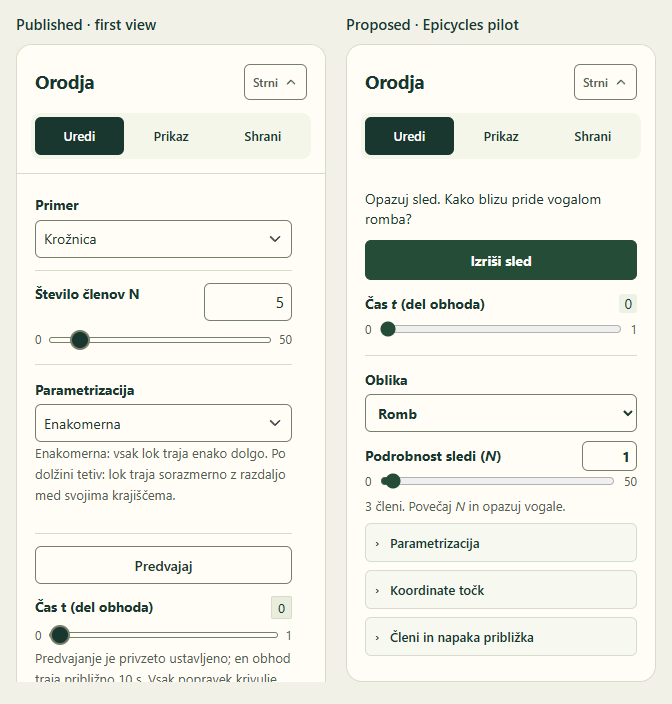
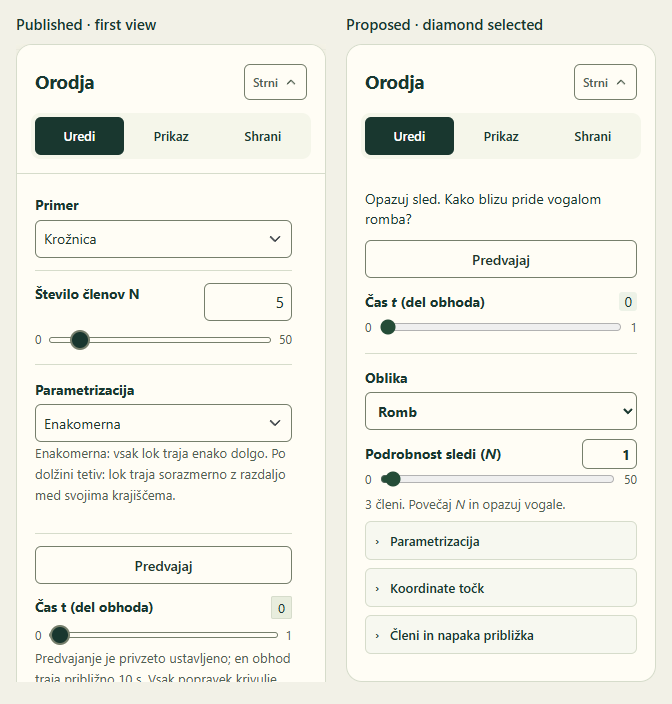
docs: fit graph control pilots to workspace and preset contracts

Changed region(s): [[0.5312, 0.3438, 0.9688, 0.9375], [0.625, 0.0312, 0.8125, 0.0625]]

diff --git a/docs/specs/graph-control-first-use.md b/docs/specs/graph-control-first-use.md
@@ -10,9 +10,9 @@ At 1440 × 900, Play starts 762 px down the page. The prompt that actually sugge
 
 The starting example also matters. We ran the trace, changed the example, and compared the reported maximum trace error at two settings. On the circle, going from $N=1$ to $N=5$ changed the error from 0.00735 to 0.00155. On the diamond the same change took it from 0.18943 to 0.06694. The diamond gives someone a specific feature to watch as they move the slider. Its corners sharpen. There is also a naming problem. At $N=5$ the interface labels the input “number of terms” and reports **11 terms**. The model includes frequencies from $-N$ through $N$, including the constant term. These are plausible sources of friction. The visitor's own sequence of actions is unknown.
 
-![Published Epicycles inspector beside a proposed 310 px layout. The proposed panel starts with a prompt about the corners of a diamond, a Draw trace button and manual time control. Shape and trace detail follow, with coordinates, parametrization and calculations in named disclosures.](../reviews/graph-control-first-use/epicycles-proposal.png)
+![Published Epicycles inspector beside the proposed 310 px panel after choosing the diamond. The pilot puts shared Play/Pause and manual time first. Shape and trace detail follow, with named disclosures for coordinates, parametrization and calculations.](../reviews/graph-control-first-use/epicycles-proposal.png)
 
-**What to try in the pilot.** Open an ordinary fresh visit on the existing diamond example at $N=1$, paused. Put “Izriši sled” / “Draw the trace” and manual time first. Then offer the shape and “Podrobnost sledi (N)” / “Trace detail (N)” with the exact field and computed term count. At the diamond, invite the visitor to increase (N) and watch the corners. The geometric question follows the selected shape. Explain the harmonic cutoff and show the coefficient table under “Terms and approximation error”. Keep the circle within the example chooser. The new starting example is a proposal to test. Existing saved scenes, authored lesson scenes and explicit example links should continue to open with their own values.
+**What to try in the pilot.** Keep the existing paused opening. Put the shared “Predvajaj” / “Play” button and manual time control first in Edit. Put the action in its nearby instruction, for example “Press Play and follow the tip.” Then offer the shape and “Podrobnost sledi (N)” / “Trace detail (N)” with the exact field and computed term count. The mockup shows the diamond selected at $N=1$ for the corner comparison. Explain the harmonic cutoff and show the coefficient table under “Terms and approximation error”.
 
 ## What recurred across 30 graphs
 
@@ -75,7 +75,7 @@ We opened the published site in a clean Edge/Chromium browser, default Slovenian
 | Graph | In view / total | Opening panel | Proposed first task |
 | --- | ---: | --- | --- |
 | [Bisection](https://efodx.github.io/bezeg-2.0/analysis/bisection) | 8 / 8 | Interval setup occupies most of the first screen, but a single Next step produces a clear visual and numerical change. | Lead with Next step and the surviving interval. Keep the endpoints together under interval setup. |
-| [Epicycles](https://efodx.github.io/bezeg-2.0/analysis/epicycles) | 6 / 7 | Shape, cutoff and parametrization come before Play. The chosen circle barely changes over common cutoff values. | Start the diamond trace, scrub it, then adjust detail and inspect the corners. See the pilot above. |
+| [Epicycles](https://efodx.github.io/bezeg-2.0/analysis/epicycles) | 6 / 7 | Shape, cutoff and parametrization come before Play. The chosen circle barely changes over common cutoff values. | Play or scrub the trace. Choose the diamond and adjust detail to inspect its corners. See the pilot above. |
 | [Direction field and Euler's method](https://efodx.github.io/bezeg-2.0/analysis/euler-method) | 4 / 9 | The equation, start coordinates and step-size explanation appear before the action that draws a step. | Take one Euler step in the visible field, then change step size and compare paths. |
 | [Logistic map and bifurcations](https://efodx.github.io/bezeg-2.0/analysis/logistic-map) | 7 / 7 | The parameter, initial value, and step/play controls are all on the first screen. Detailed diagnostics follow. | Keep this grouping. Call attention to the next iterate, then offer period and stability results. |
 | [Waves and sampling](https://efodx.github.io/bezeg-2.0/functions/waves) | 7 / 16 | Several amplitude and phase controls appear before playback in the default wave-addition example. | Play the sum of two waves, then change one phase and watch the sum. Reveal the other wave settings together. |
@@ -108,12 +108,23 @@ We opened the published site in a clean Edge/Chromium browser, default Slovenian
 
 | Order | Work | Acceptance |
 | --- | --- | --- |
-| 1 · Epicycles | Reorder the existing controls, distinguish cutoff from term count, and try the diamond opening shown above. Compare the entry experience to the current circle. | From a fresh desktop or phone visit, trace the shape or scrub manually with the graph visible. Change detail, see the effect at a corner, and find the coefficient table and exact point entry. A reduced-motion visitor can do the same experiment manually. |
+| 1 · Epicycles | Move existing playback first, distinguish cutoff from term count, and compare the circle and diamond using the existing chooser. | From a fresh desktop or phone visit, run the trace with the graph visible. Scrub manually in Edit, select the diamond, compare two cutoff values and find the coefficient table and exact point entry. Verify graph-adjacent manual time separately before adopting the phone variation below. |
 | 2 · De Casteljau and Simulation | Apply the idea to a point-based construction and a statistical experiment. De Casteljau begins with running or scrubbing the construction. Simulation begins with a visible experiment and sample size. Expose seed comparison on request. | Animate De Casteljau without selecting a curve or paging through coordinates. On the default Galton board, change the ball count and see the histogram and deviation respond. Then set a precise coordinate or reproduce a simulation by seed. |
 | 3 · Apply what transfers | First cover the related curve, playback and simulation families. Then address results-first geometry panels and precision-heavy 3D panels. Use the sample table to choose each first task. Keep short, effective panels as comparison cases. | For each migrated route, capture the opening panel at 310 px, the chosen action and its visible consequence. Verify representative phone and keyboard paths. Create a shared composition only after the pilots demonstrate the same need across graphs. |
 
 **How to tell whether this helped.** Use the same neutral tasks on the current and pilot versions. For Epicycles, ask “Can you get the circles to draw a shape?” and then “Can you make the trace come closer to the corners?” For De Casteljau, ask to show how the curve is constructed. For Simulation, ask to compare what happens with fewer balls. Avoid mentioning the button or slider in the task. Record time to first meaningful graph change, wrong turns, requests for help and whether the visitor can point to what changed. A practical pilot target is 4 of 5 first-time visitors completing the first task unaided within 20 seconds. Split or counterbalance the versions to limit practice effects. This is a proposed usability target and optional observation exercise. A teacher's counter-test is to set an exact value, restore a saved setup and demonstrate the same construction.
 
-**Implementation boundaries.** Start in each graph's ordinary control composition, including `EpicycleGraph.tsx`, the curve panels under `src/graphs/base/controls/` and `SimulationGraph.tsx`. Use the shared controls catalogue, `InspectorDisclosure`, existing board handles and the responsive playback slot. Move each control with its existing value, focus, validation and accessible name. Bring the existing route-specific prompt into view next to the first action and retire the generic instruction there. For reduced motion, give the manual time control the prominent place at the graph. Do not add a mandatory tutorial or a global beginner/expert preference. Keep topic-specific vocabulary and mathematical detail accessible at the point of use. [Control catalogue](../controls.md) · [Phone playback](mobile-graph-playback.md)
+## Fit with the current architecture
+
+| Owner | Pilot decision |
+| --- | --- |
+| Shared workspace | Keep Edit, Display, Save, Presentation and responsive layout in `DemonstrationWorkspace`. Edit content already comes from each graph. Use the registered prompt pair for static guidance. `LearningPrompt` currently reads the route alone. A hint that names the selected shape belongs beside that graph's controls. Moving the shared prompt across routes would be a separate workspace change. |
+| Epicycles | Reorder `renderControls()` and group the detailed output inside `renderReadout()`. The function-graph base continues to compose controls, reveals, results, refusal notice and legend. Keep the local playback subscription and a single live announcement. Use `InspectorDisclosure` for UI-only expansion and the existing setters for mathematical edits. |
+| Playback | Keep the shared Play/Pause labels, styling, blocked-action reasons and lesson policy. Establish prominence through order and the adjacent instruction. The responsive slot currently moves the button group. Epicycles' time slider is a sibling. A graph-adjacent scrubber would be a bounded opt-in under the existing mobile playback design. Verify one operable instance, keyboard focus across resize, reduced motion, lesson interaction locks and Presentation fallback before adopting it. |
+| Starting scene and presets | The circle at $N=5$ is an explicit model test. The function graph uses its default model for initialization and the default preset. Epicycles also uses the model factory to validate partial stored graph state. Use the existing chooser to test the diamond first. Changing the factory would be a separate behavior decision covering Reset to default, previously valid preset data, lesson scene replacement and previews. |
+| De Casteljau | Its animation comes through `getGraphCommands()`. The inherited `BaseCurveGraph.workspaceEdit()` puts curve selection and typed points before those commands. Use a small opt-in at that composition point for the pilot, retaining the existing point editor, refusal handling, curve targeting and default order for sibling graphs. |
+| Simulation | Reorder `SimulationGraph.getGraphCommands()` and render the second seed field when its supported mode has comparison enabled. Keep `seed2` in scene state when hidden. Verify that toggling comparison, lesson actions and preset restore reveal the correct value and reproduce the same run. |
+
+The three pilots can use existing graph controls and keep their registered routes, lesson actions and preset shapes. Revisit shared layout only when another graph needs the same composition. The Epicycles preview recipe currently selects controls by their Slovenian labels, including “Število členov N”. Update that consumer and check the affected capture when adopting the new wording. [Shared controls](shared-graph-controls.md) · [Phone playback](mobile-graph-playback.md) · [Control catalogue](../controls.md)
 
 **Checks for implementation.** Verify the first action and its consequence at 1440 × 900, 390 × 844 and enlarged text. Exercise keyboard point entry and manual motion, reduced motion, Slovenian and English, and Presentation mode. Check that reset, example changes, lessons and preset restore synchronize the board and inspector. Check prompts, accessible names, localized strings and preview recipes when changing a label or starting scene. Advanced operations, exact entry, refusal messages and saved setups must remain reachable. The scope of this document is the audit and proposal.
